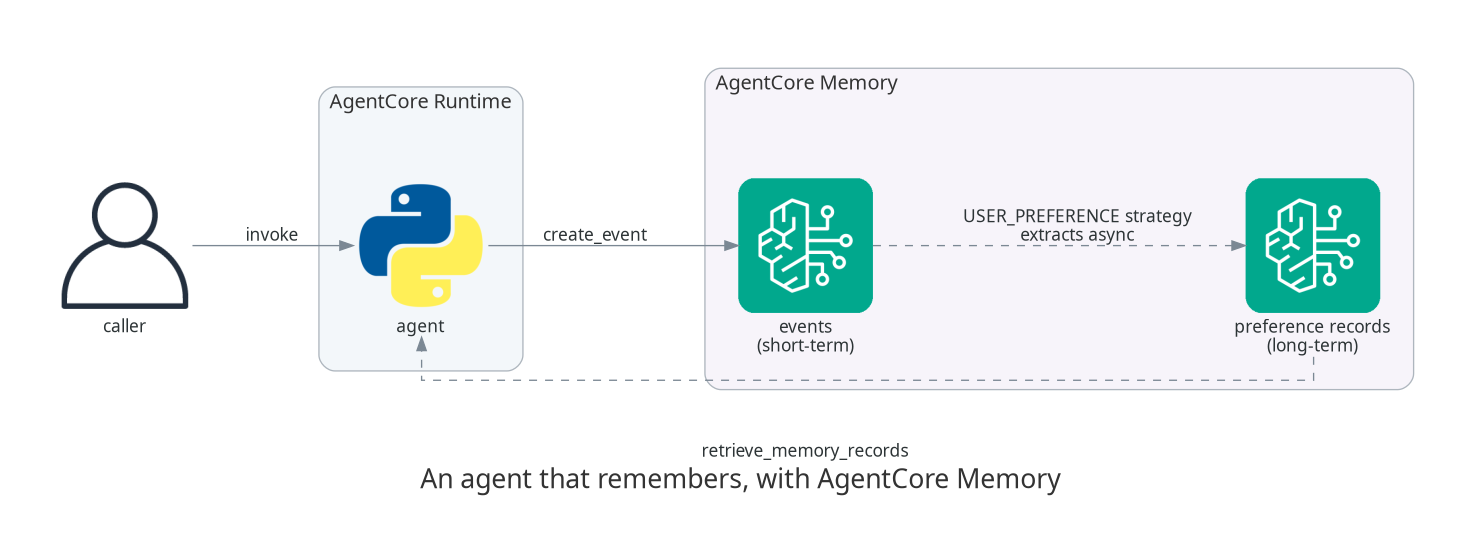
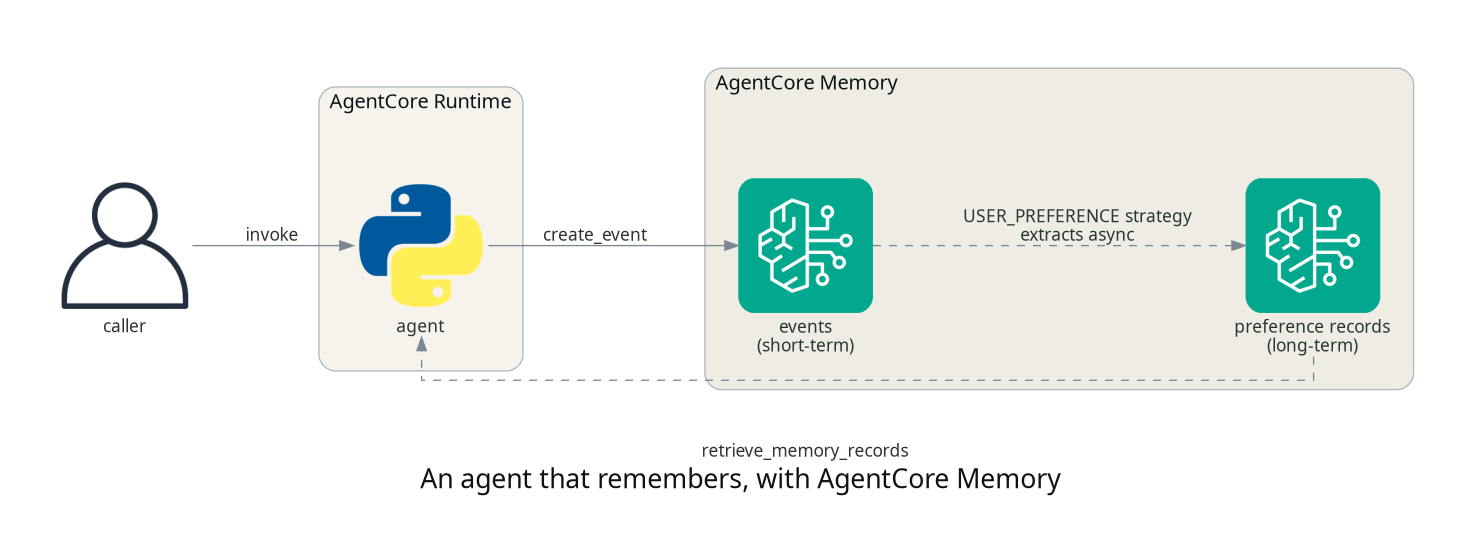
fix: retheme social cards to the site's light palette
The cards were built on --dark #0b1315, but levantar.ai is a light theme.
Its body is --paper on --ink, and --dark appears twice in the whole
stylesheet against seventeen uses of --paper, so the cards did not look
like the site they link to.

Flips the card chrome to --paper, --ink, --ink-3 and --teal-700, puts the
artwork on a --paper-warm tile with a --rule hairline, and swaps the white
wordmark for the charcoal mark the site itself uses.

The diagrams carried hardcoded #333333, #555555, #f3f7fa and #f7f4fa,
which were nobody's palette. Those become --ink, --ink-2 and two warm
neutrals that survive the paper multiply in render-social.

AWS service icons and the Python logo keep their own colours, since they
are third party marks and recolouring them breaks their guidelines.

All four posts regenerated. Publish dates unchanged and no index.html
changed, so only the artwork moved.

diff --git a/scripts/render-social.py b/scripts/render-social.py
@@ -37,12 +37,17 @@ MARGIN = 80       # the side margin levantar.ai's own cards use
 # height the diagram cannot spare.
 MARGIN_Y = 40
 
-# Tokens lifted from levantar.css, via the site's card renderer.
-BG = (11, 19, 21)            # --dark    #0b1315
-TITLE_INK = (233, 231, 224)  # --dark-ink   #e9e7e0
-MUTED_INK = (167, 176, 177)  # --dark-ink-2 #a7b0b1
-ACCENT_LIFT = (127, 197, 194)  # --accent-lift #7fc5c2, the teal the site uses on dark
-PAPER = (247, 245, 240)      # --paper   #f7f5f0
+# Tokens lifted from levantar.css. The site is a light theme, its body is
+# --paper on --ink, so the cards are too. The --dark tokens appear twice in the
+# whole stylesheet and are not what a reader sees.
+BG = (247, 245, 240)         # --paper      #f7f5f0
+TITLE_INK = (14, 18, 22)     # --ink        #0e1216
+MUTED_INK = (101, 108, 114)  # --ink-3      #656c72
+ACCENT = (13, 82, 87)        # --teal-700   #0d5257, the site's accent on light
+# The artwork tile sits a shade warmer than the canvas so it reads as a panel
+# without a heavy border, the way the site separates surfaces.
+PANEL = (239, 236, 228)      # --paper-warm #efece4
+RULE = (220, 213, 198)       # --rule       #dcd5c6
 
 EYEBROW = "AgentCore series"
 # Smaller than the site's 72-42 ramp: these cards give most of their height to
@@ -105,9 +110,9 @@ def main():
     text_width = W - 2 * MARGIN
 
     # Eyebrow and its hairline, laid out as the site's cards lay them out.
-    draw.text((MARGIN, MARGIN_Y), " ".join(EYEBROW.upper()), font=font(600, 22), fill=ACCENT_LIFT)
+    draw.text((MARGIN, MARGIN_Y), " ".join(EYEBROW.upper()), font=font(600, 22), fill=ACCENT)
     rule_y = MARGIN_Y + 42
-    draw.line([(MARGIN, rule_y), (MARGIN + 96, rule_y)], fill=ACCENT_LIFT, width=2)
+    draw.line([(MARGIN, rule_y), (MARGIN + 96, rule_y)], fill=ACCENT, width=2)
 
     # Shrink the title until it fits rather than truncating it — a card that
     # ends mid-word reads as broken, a slightly smaller one does not.
@@ -139,10 +144,10 @@ def main():
     scale = min((area_w - 2 * pad_x) / art.width, (area_h - 2 * pad_y) / art.height)
     art = art.resize((int(art.width * scale), int(art.height * scale)), Image.LANCZOS)
 
-    # The diagram comes off graphviz on white. Multiplying it over a paper tile
-    # turns that white into the site's paper and leaves the strokes and the AWS
-    # icon colours where they were, so the card carries no pure white anywhere.
-    art = ImageChops.multiply(art, Image.new("RGB", art.size, PAPER))
+    # The diagram comes off graphviz on white. Multiplying it over the panel
+    # tone turns that white into the tile colour and leaves the strokes and the
+    # AWS icon colours where they were, so the card carries no pure white.
+    art = ImageChops.multiply(art, Image.new("RGB", art.size, PANEL))
 
     # A 2.7:1 diagram on a square canvas leaves slack whatever we do. Splitting
     # it evenly floats the artwork away from its own title, so bias it upward
@@ -151,12 +156,13 @@ def main():
     card_x = (W - card_w) // 2
     card_y = top + round((area_h - card_h) * (0.40 if square else 0.5))
     draw.rounded_rectangle(
-        [card_x, card_y, card_x + card_w, card_y + card_h], radius=16, fill=PAPER
+        [card_x, card_y, card_x + card_w, card_y + card_h],
+        radius=16, fill=PANEL, outline=RULE, width=1,
     )
     canvas.paste(art, (card_x + pad_x, card_y + pad_y))
 
     # Footer: the mark and wordmark left, the domain right.
-    mark = Image.open(ROOT / "docs/levantar-logo-white.png").convert("RGBA")
+    mark = Image.open(ROOT / "docs/levantar-logo-dark.png").convert("RGBA")
     mark = mark.resize((round(mark.width * mark_h / mark.height), mark_h), Image.LANCZOS)
     canvas.paste(mark, (MARGIN, footer_y), mark)
     draw.text((MARGIN + mark.width + 15, footer_y + 4), "Levantar",

diff --git a/agentcore/03-memory/diagram.py b/agentcore/03-memory/diagram.py
@@ -22,7 +22,7 @@ graph_attr = {
     "nodesep": "0.9",
     "ranksep": "1.1",
     "fontsize": _fs(20),
-    "fontcolor": "#333333",
+    "fontcolor": "#0e1216",  # --ink
 }
 
 node_attr = {
@@ -31,7 +31,7 @@ node_attr = {
 
 edge_attr = {
     "fontsize": _fs(12),
-    "fontcolor": "#555555",
+    "fontcolor": "#4a5158",  # --ink-2
 }
 
 with Diagram(
@@ -48,13 +48,13 @@ with Diagram(
 
     with Cluster(
         "AgentCore Runtime",
-        graph_attr={"fontsize": _fs(15), "margin": cluster_margin(), "bgcolor": "#f3f7fa"},
+        graph_attr={"fontsize": _fs(15), "margin": cluster_margin(), "bgcolor": "#f6f3ec"},
     ):
         agent = Python("agent", height=_h(1))
 
     with Cluster(
         "AgentCore Memory",
-        graph_attr={"fontsize": _fs(15), "margin": cluster_margin(), "bgcolor": "#f7f4fa"},
+        graph_attr={"fontsize": _fs(15), "margin": cluster_margin(), "bgcolor": "#efece4"},
     ):
         events = Bedrock("events\n(short-term)", height=_h(2))
         records = Bedrock("preference records\n(long-term)", height=_h(2))

diff --git a/agentcore/04-builtin-tools/diagram.py b/agentcore/04-builtin-tools/diagram.py
@@ -22,7 +22,7 @@ graph_attr = {
     "nodesep": "0.9",
     "ranksep": "1.1",
     "fontsize": _fs(20),
-    "fontcolor": "#333333",
+    "fontcolor": "#0e1216",  # --ink
 }
 
 node_attr = {
@@ -31,7 +31,7 @@ node_attr = {
 
 edge_attr = {
     "fontsize": _fs(12),
-    "fontcolor": "#555555",
+    "fontcolor": "#4a5158",  # --ink-2
 }
 
 with Diagram(
@@ -48,13 +48,13 @@ with Diagram(
 
     with Cluster(
         "AgentCore Runtime",
-        graph_attr={"fontsize": _fs(15), "margin": cluster_margin(), "bgcolor": "#f3f7fa"},
+        graph_attr={"fontsize": _fs(15), "margin": cluster_margin(), "bgcolor": "#f6f3ec"},
     ):
         agent = Python("agent", height=_h(1))
 
     with Cluster(
         "Code Interpreter  -  SANDBOX: no network, no credentials",
-        graph_attr={"fontsize": _fs(15), "margin": cluster_margin(), "bgcolor": "#f7f4fa"},
+        graph_attr={"fontsize": _fs(15), "margin": cluster_margin(), "bgcolor": "#efece4"},
     ):
         sandbox = Bedrock("pandas session", height=_h(1))
 

diff --git a/agentcore/02-gateway/diagram.py b/agentcore/02-gateway/diagram.py
@@ -24,7 +24,7 @@ graph_attr = {
     "nodesep": "0.9",
     "ranksep": "1.1",
     "fontsize": _fs(20),
-    "fontcolor": "#333333",
+    "fontcolor": "#0e1216",  # --ink
 }
 
 node_attr = {
@@ -33,7 +33,7 @@ node_attr = {
 
 edge_attr = {
     "fontsize": _fs(12),
-    "fontcolor": "#555555",
+    "fontcolor": "#4a5158",  # --ink-2
 }
 
 with Diagram(
@@ -50,13 +50,13 @@ with Diagram(
 
     with Cluster(
         "AgentCore Runtime",
-        graph_attr={"fontsize": _fs(15), "margin": cluster_margin(), "bgcolor": "#f3f7fa"},
+        graph_attr={"fontsize": _fs(15), "margin": cluster_margin(), "bgcolor": "#f6f3ec"},
     ):
         agent = Python("agent", height=_h(1))
 
     with Cluster(
         "AgentCore Gateway (MCP)",
-        graph_attr={"fontsize": _fs(15), "margin": cluster_margin(), "bgcolor": "#f7f4fa"},
+        graph_attr={"fontsize": _fs(15), "margin": cluster_margin(), "bgcolor": "#efece4"},
     ):
         gateway = APIGateway("orders target", height=_h(1))
 

diff --git a/agentcore/01-first-agent/diagram.py b/agentcore/01-first-agent/diagram.py
@@ -24,7 +24,7 @@ graph_attr = {
     "nodesep": "0.9",
     "ranksep": "1.1",
     "fontsize": _fs(20),
-    "fontcolor": "#333333",
+    "fontcolor": "#0e1216",  # --ink
 }
 
 node_attr = {
@@ -33,7 +33,7 @@ node_attr = {
 
 edge_attr = {
     "fontsize": _fs(12),
-    "fontcolor": "#555555",
+    "fontcolor": "#4a5158",  # --ink-2
 }
 
 with Diagram(
@@ -51,7 +51,7 @@ with Diagram(
 
     with Cluster(
         "AgentCore Runtime  -  one microVM per session",
-        graph_attr={"fontsize": _fs(15), "margin": cluster_margin(), "bgcolor": "#f3f7fa"},
+        graph_attr={"fontsize": _fs(15), "margin": cluster_margin(), "bgcolor": "#f6f3ec"},
     ):
         agent = Python("echo agent\nport 8080", height=_h(2))
 
